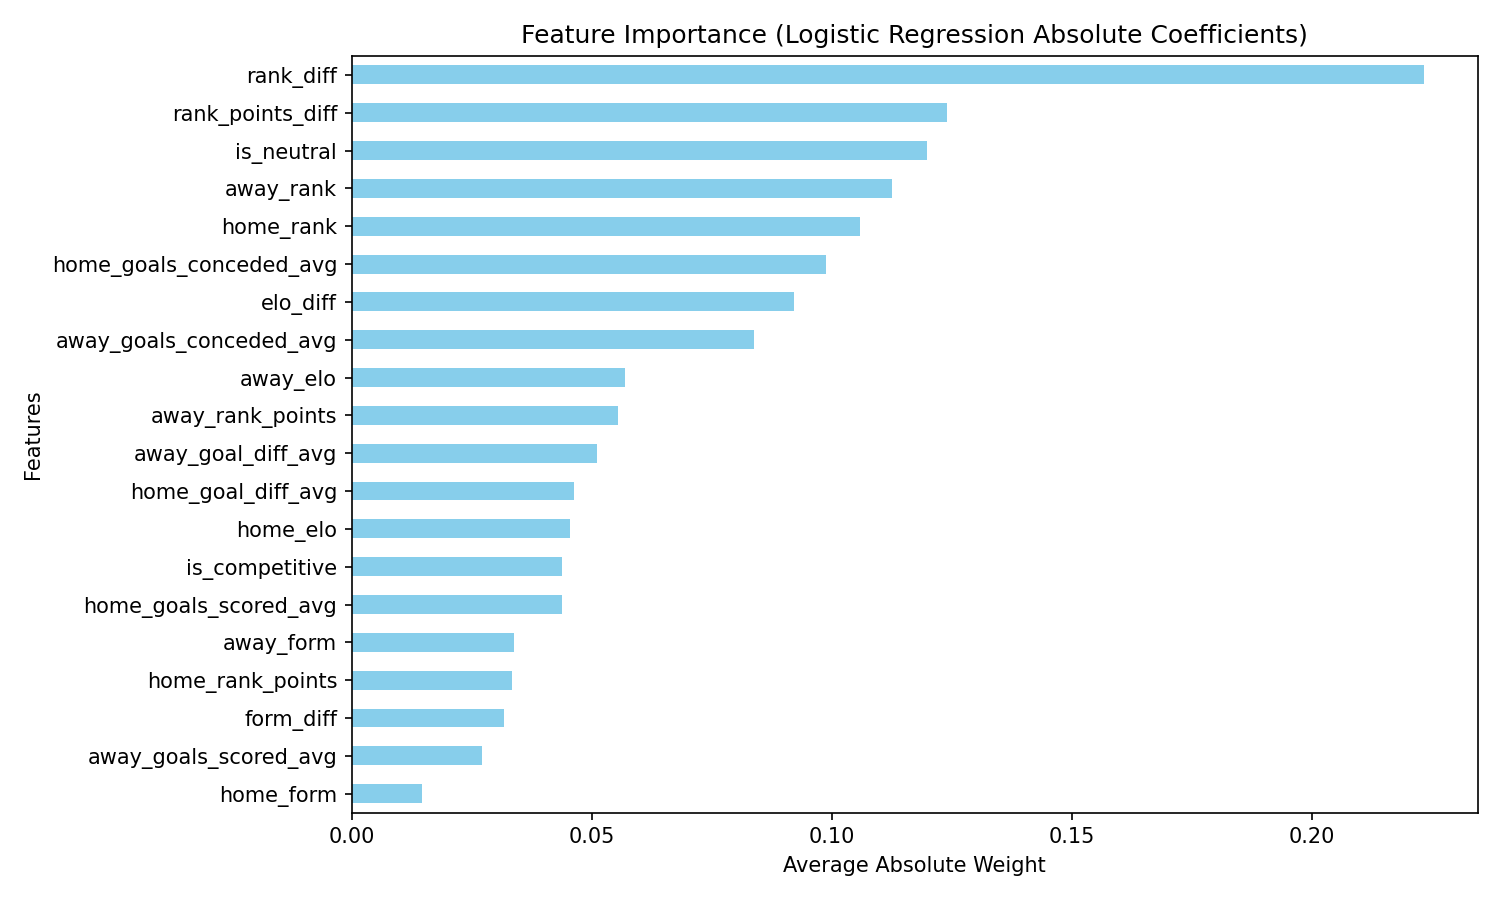
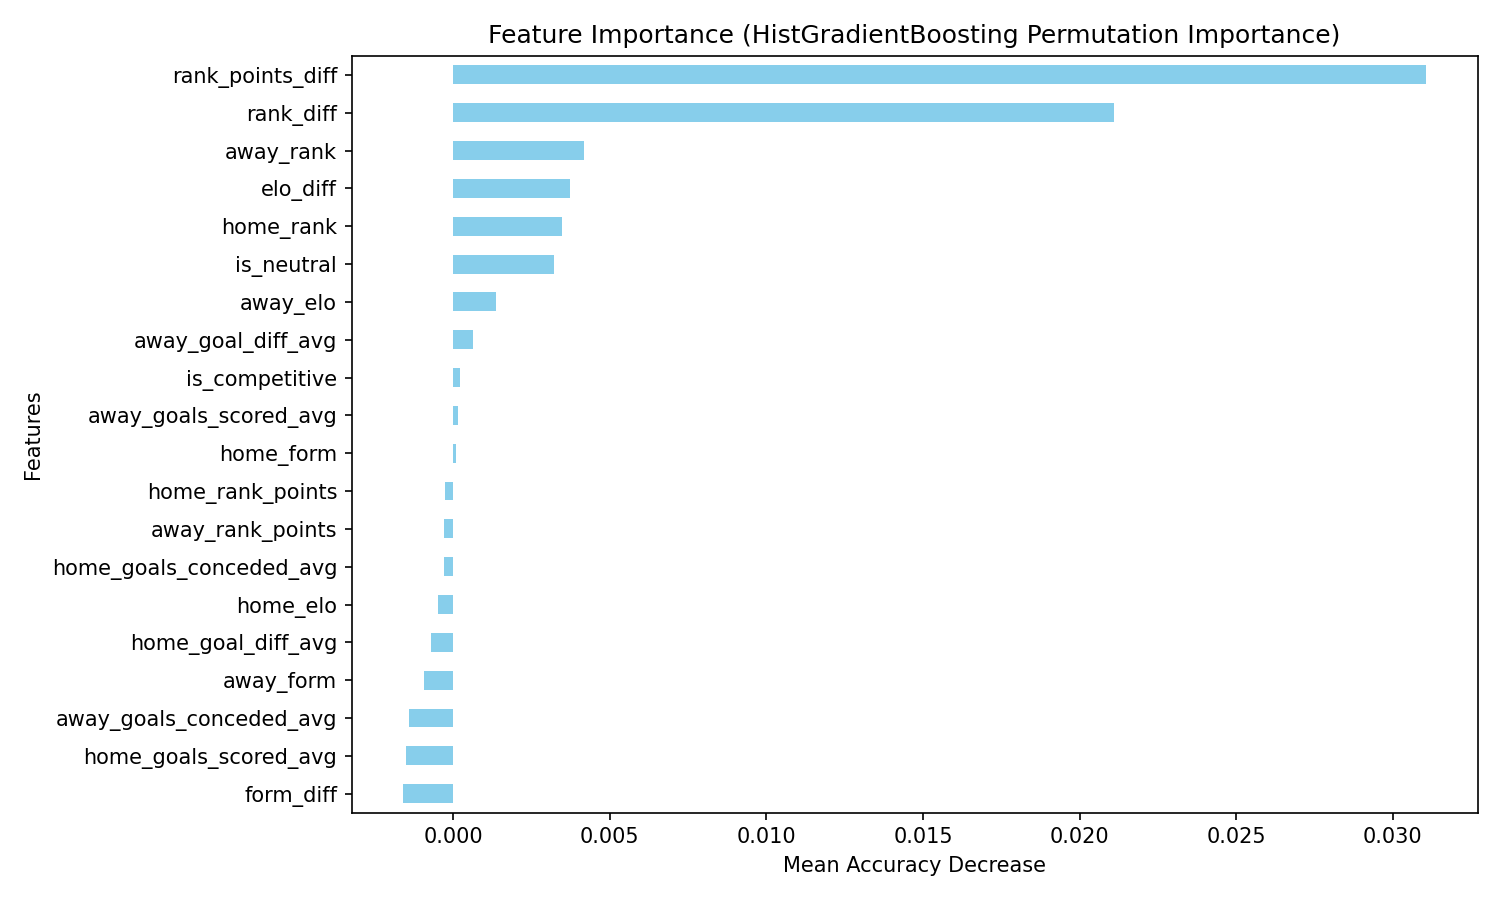
feat: implement multi-model training and hyperparameter tuning

diff --git a/src/models/train.py b/src/models/train.py
@@ -10,10 +10,24 @@ import pandas as pd
 import numpy as np
 import joblib
 from sklearn.linear_model import LogisticRegression
+from sklearn.ensemble import RandomForestClassifier, HistGradientBoostingClassifier
 from sklearn.preprocessing import StandardScaler
-from sklearn.metrics import accuracy_score, log_loss
+from sklearn.metrics import accuracy_score, log_loss, brier_score_loss
+from sklearn.model_selection import GridSearchCV, TimeSeriesSplit
 from src.utils.config import config
 from src.utils.logger import get_logger
+
+try:
+    from xgboost import XGBClassifier
+    XGBOOST_AVAILABLE = True
+except ImportError:
+    XGBOOST_AVAILABLE = False
+
+try:
+    from xgboost import XGBClassifier
+    XGBOOST_AVAILABLE = True
+except ImportError:
+    XGBOOST_AVAILABLE = False
 
 logger = get_logger(__name__)
 
@@ -72,40 +86,149 @@ def train_model() -> None:
     # Transform test set using train scaling parameters!
     X_test_scaled = scaler.transform(X_test)
 
-    # 4. Train Multinomial Logistic Regression model
-    logger.info("Training multinomial Logistic Regression...")
-    model = LogisticRegression(
-        multi_class="multinomial",
-        solver="lbfgs",
-        max_iter=1000,
-        random_state=config["model"]["random_state"],
-    )
-    model.fit(X_train_scaled, y_train)
+    # 4. Define base models and hyperparameter grids for tuning
+    base_models = {
+        "Logistic Regression": LogisticRegression(
+            multi_class="multinomial",
+            solver="lbfgs",
+            max_iter=1000,
+            random_state=config["model"]["random_state"],
+        ),
+        "Random Forest": RandomForestClassifier(
+            class_weight="balanced",
+            random_state=config["model"]["random_state"],
+        ),
+        "HistGradientBoosting": HistGradientBoostingClassifier(
+            random_state=config["model"]["random_state"],
+        )
+    }
 
-    # 5. Evaluate on test set
-    y_pred_probs = model.predict_proba(X_test_scaled)
-    y_preds = model.predict(X_test_scaled)
+    grids = {
+        "Logistic Regression": {
+            "C": [0.01, 0.1, 1.0, 10.0]
+        },
+        "Random Forest": {
+            "n_estimators": [50, 100, 200],
+            "max_depth": [5, 10, 15]
+        },
+        "HistGradientBoosting": {
+            "max_iter": [50, 100, 150],
+            "learning_rate": [0.01, 0.05, 0.1],
+            "max_depth": [3, 5, 8]
+        }
+    }
 
-    acc = accuracy_score(y_test, y_preds)
-    loss = log_loss(y_test, y_pred_probs)
+    if XGBOOST_AVAILABLE:
+        logger.info("XGBoost is available. Adding to comparison...")
+        base_models["XGBoost"] = XGBClassifier(
+            objective="multi:softprob",
+            num_class=3,
+            random_state=config["model"]["random_state"],
+            eval_metric="mlogloss"
+        )
+        grids["XGBoost"] = {
+            "n_estimators": [50, 100, 150],
+            "learning_rate": [0.01, 0.05, 0.1],
+            "max_depth": [3, 5, 7]
+        }
+    else:
+        logger.info("XGBoost package not installed. Skipping.")
 
-    logger.info(f"Training complete. Evaluation on test set:")
-    logger.info(f"  Accuracy: {acc:.4f} (Elo Baseline: 0.5922)")
-    logger.info(f"  Log Loss: {loss:.4f} (Elo Baseline: 0.9589)")
+    # 5. Train and tune all models using TimeSeriesSplit cross-validation
+    comparison_results = {}
+    trained_models = {}
+    best_params_dict = {}
 
-    # 6. Save model, scaler, and metadata
-    logger.info("Serialising artifacts to registry...")
-    joblib.dump(model, models_dir / "best_model.pkl")
+    # Pre-build one-hot encoding of targets for Brier score calculation
+    n_samples = len(y_test)
+    y_test_one_hot = np.zeros((n_samples, 3))
+    for i, idx in enumerate(y_test):
+        y_test_one_hot[i, idx] = 1.0
+
+    # Create 3-fold temporal cross-validation split on training data
+    cv = TimeSeriesSplit(n_splits=3)
+
+    logger.info("Starting hyperparameter tuning and model evaluation...")
+    for model_name, clf in base_models.items():
+        logger.info(f"Tuning {model_name}...")
+        grid_search = GridSearchCV(
+            estimator=clf,
+            param_grid=grids[model_name],
+            cv=cv,
+            scoring="neg_log_loss",
+            n_jobs=-1
+        )
+        grid_search.fit(X_train_scaled, y_train)
+
+        best_clf = grid_search.best_estimator_
+        trained_models[model_name] = best_clf
+        best_params_dict[model_name] = grid_search.best_params_
+        logger.info(
+            f"  Best params for {model_name}: {grid_search.best_params_}")
+
+        # Predict and evaluate on test set
+        y_pred_probs = best_clf.predict_proba(X_test_scaled)
+        y_preds = best_clf.predict(X_test_scaled)
+
+        acc = accuracy_score(y_test, y_preds)
+        loss = log_loss(y_test, y_pred_probs)
+
+        # Calculate Brier score
+        brier_scores = [brier_score_loss(
+            y_test_one_hot[:, c], y_pred_probs[:, c]) for c in range(3)]
+        avg_brier = np.mean(brier_scores)
+
+        comparison_results[model_name] = {
+            "accuracy": acc,
+            "log_loss": loss,
+            "brier_score": avg_brier
+        }
+        logger.info(
+            f"  {model_name} (Tuned) -> Accuracy: {acc:.4f}, Log Loss: {loss:.4f}, Brier Score: {avg_brier:.4f}")
+
+    # Log Comparison Table
+    logger.info("\n" + "=" * 60 +
+                "\nTUNED MODEL COMPARISON TABLE\n" + "=" * 60)
+    for model_name, res in comparison_results.items():
+        logger.info(
+            f"{model_name:<25} | Accuracy: {res['accuracy']:.4f} | Log Loss: {res['log_loss']:.4f} | Brier: {res['brier_score']:.4f}")
+    logger.info("=" * 60)
+
+    # 6. Select the best model (minimising Log Loss)
+    best_model_name = min(comparison_results,
+                          key=lambda k: comparison_results[k]["log_loss"])
+    best_model = trained_models[best_model_name]
+    logger.info(
+        f"Winning Model: {best_model_name} (Lowest Test Log Loss: {comparison_results[best_model_name]['log_loss']:.4f})")
+
+    # 7. Serialise artifacts to registry
+    logger.info("Serialising winning model to best_model.pkl...")
+    joblib.dump(best_model, models_dir / "best_model.pkl")
     joblib.dump(scaler, models_dir / "scaler.pkl")
 
-    # Save meta json with feature listing and scores
+    # Save all individual tuned models
+    for model_name, clf in trained_models.items():
+        clean_name = model_name.lower().replace(" ", "_")
+        joblib.dump(clf, models_dir / f"{clean_name}.pkl")
+
+    # Save meta json with feature listing and comparison details
     meta = {
-        "model_type": "Logistic Regression",
+        "model_type": best_model_name,
         "features": FEATURE_COLUMNS,
+        "best_params": best_params_dict[best_model_name],
         "test_metrics": {
-            "accuracy": float(acc),
-            "log_loss": float(loss),
+            "accuracy": float(comparison_results[best_model_name]["accuracy"]),
+            "log_loss": float(comparison_results[best_model_name]["log_loss"]),
+            "brier_score": float(comparison_results[best_model_name]["brier_score"])
         },
+        "comparison": {
+            name: {
+                "accuracy": float(res["accuracy"]),
+                "log_loss": float(res["log_loss"]),
+                "brier_score": float(res["brier_score"])
+            } for name, res in comparison_results.items()
+        },
+        "all_best_params": best_params_dict,
         "classes": ["H", "D", "A"]
     }
 

diff --git a/src/models/evaluate.py b/src/models/evaluate.py
@@ -13,6 +13,7 @@ import joblib
 import matplotlib.pyplot as plt
 import seaborn as sns
 from sklearn.metrics import classification_report, confusion_matrix, brier_score_loss, log_loss, accuracy_score
+from sklearn.inspection import permutation_importance
 from src.utils.config import config
 from src.utils.logger import get_logger
 
@@ -111,18 +112,43 @@ def generate_evaluation_report() -> None:
     plt.close()
     logger.info(f"Saved confusion matrix plot to {cm_path}")
 
-    # 7. Plot and Save Feature Coefficients (Feature Importance)
+    # 7. Plot and Save Feature Importance (Model-Agnostic / Model-Specific)
     logger.info("Generating Feature Importance plot...")
-    # Logistic Regression has coefficients for each of the 3 classes.
-    # We will average the absolute values of the coefficients across all classes to find overall feature importance.
-    importances = np.mean(np.abs(model.coef_), axis=0)
+    model_type = meta.get("model_type", "Unknown Model")
+    
+    if hasattr(model, "coef_"):
+        # Linear models like Logistic Regression
+        logger.info(f"Extracting coefficients for {model_type}...")
+        importances = np.mean(np.abs(model.coef_), axis=0)
+        title = f"Feature Importance ({model_type} Absolute Coefficients)"
+        xlabel = "Average Absolute Coefficient Weight"
+    elif hasattr(model, "feature_importances_"):
+        # Tree models like Random Forest, XGBoost
+        logger.info(f"Extracting Gini/Gain feature importances for {model_type}...")
+        importances = model.feature_importances_
+        title = f"Feature Importance ({model_type} Gini Importance)"
+        xlabel = "Relative Importance"
+    else:
+        # Falling back to Permutation Importance (e.g. HistGradientBoosting)
+        logger.info(f"Computing permutation importance on the test set for {model_type}...")
+        result = permutation_importance(
+            model,
+            X_test_scaled,
+            y_test,
+            n_repeats=10,
+            random_state=config["model"]["random_state"]
+        )
+        importances = result.importances_mean
+        title = f"Feature Importance ({model_type} Permutation Importance)"
+        xlabel = "Mean Accuracy Decrease"
+
     feat_imp = pd.Series(
         importances, index=feature_cols).sort_values(ascending=True)
 
     plt.figure(figsize=(10, 6))
     feat_imp.plot(kind="barh", color="skyblue")
-    plt.title("Feature Importance (Logistic Regression Absolute Coefficients)")
-    plt.xlabel("Average Absolute Weight")
+    plt.title(title)
+    plt.xlabel(xlabel)
     plt.ylabel("Features")
     plt.tight_layout()
 
